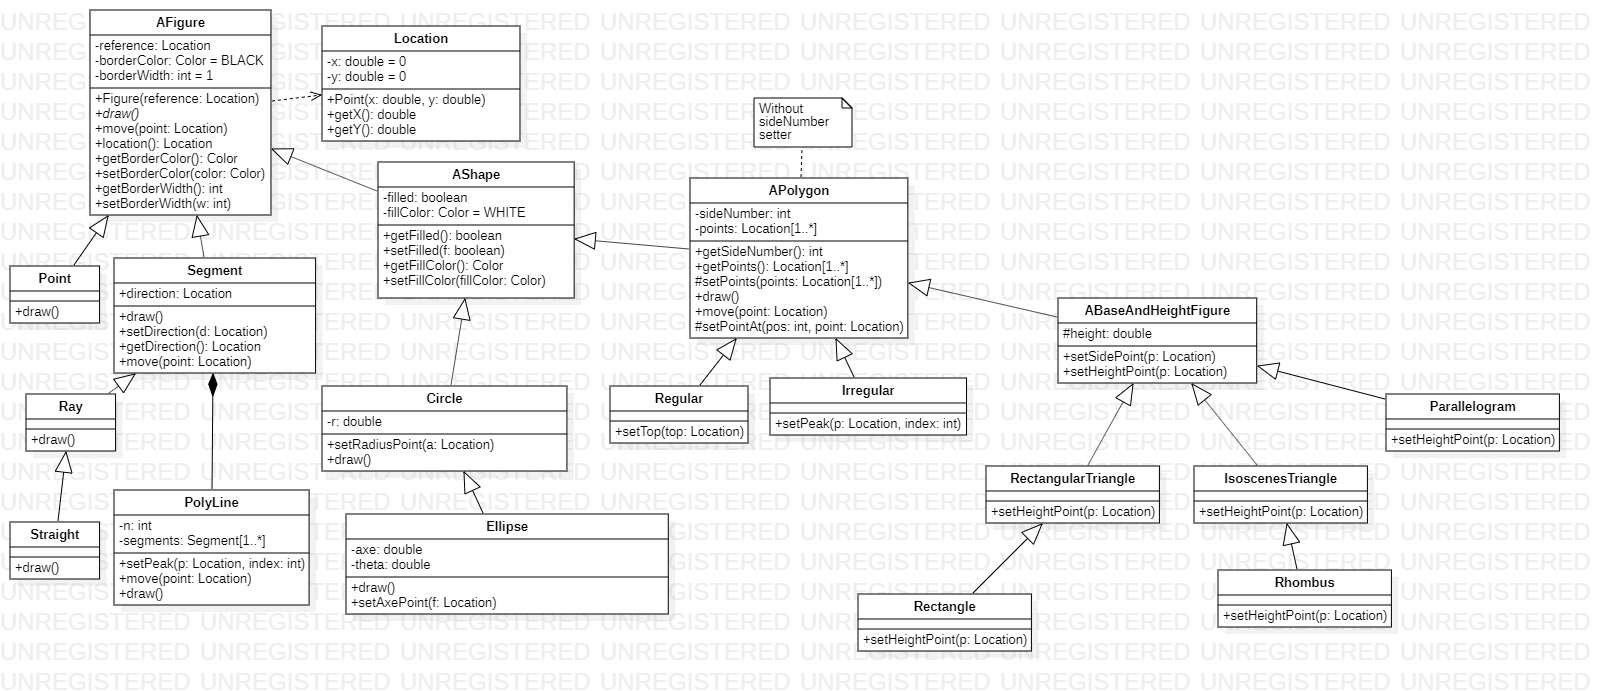
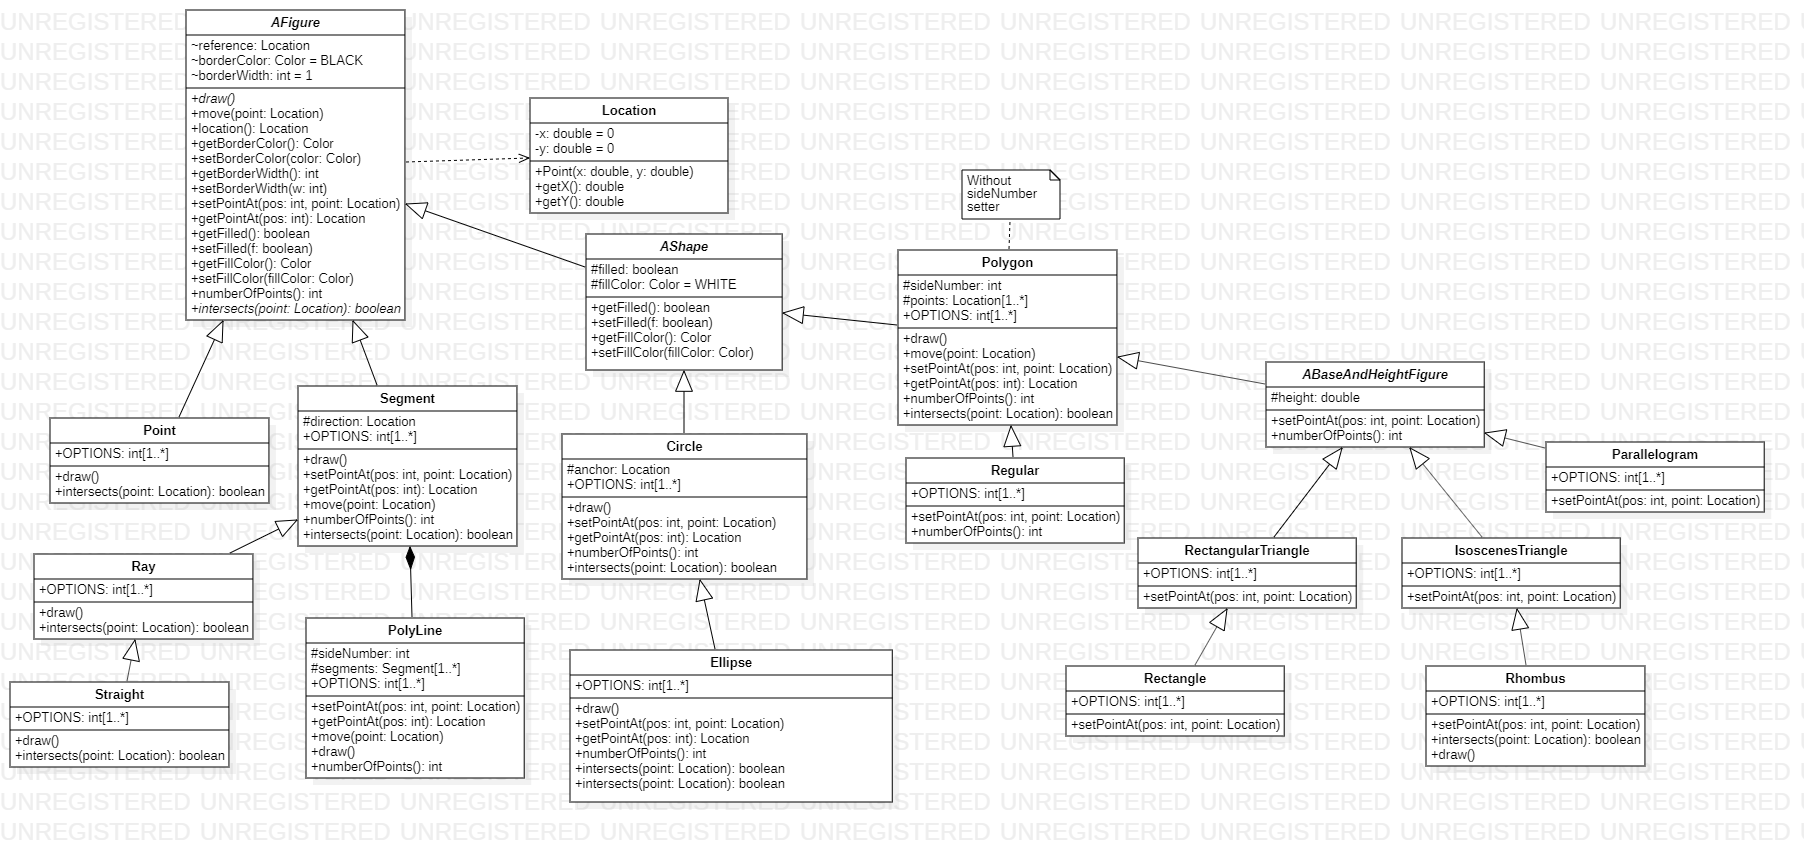
Add link

Changed region(s): [[0.0, 0.0, 0.9806, 0.9725], [0.4597, 0.152, 0.521, 0.2127]]

diff --git a/README.md b/README.md
@@ -1,6 +1,8 @@
 # MyAwesomePaint
-run with
+Run with
 ```
 java -jar MyAwesomePaint.jar
 ```
-java 8 or higher required
+Java 8 or higher required
+
+You can see UML-diagram exported to png [here](https://github.com/uvlad7/MyAwesomePaint/blob/master/Main.png)
